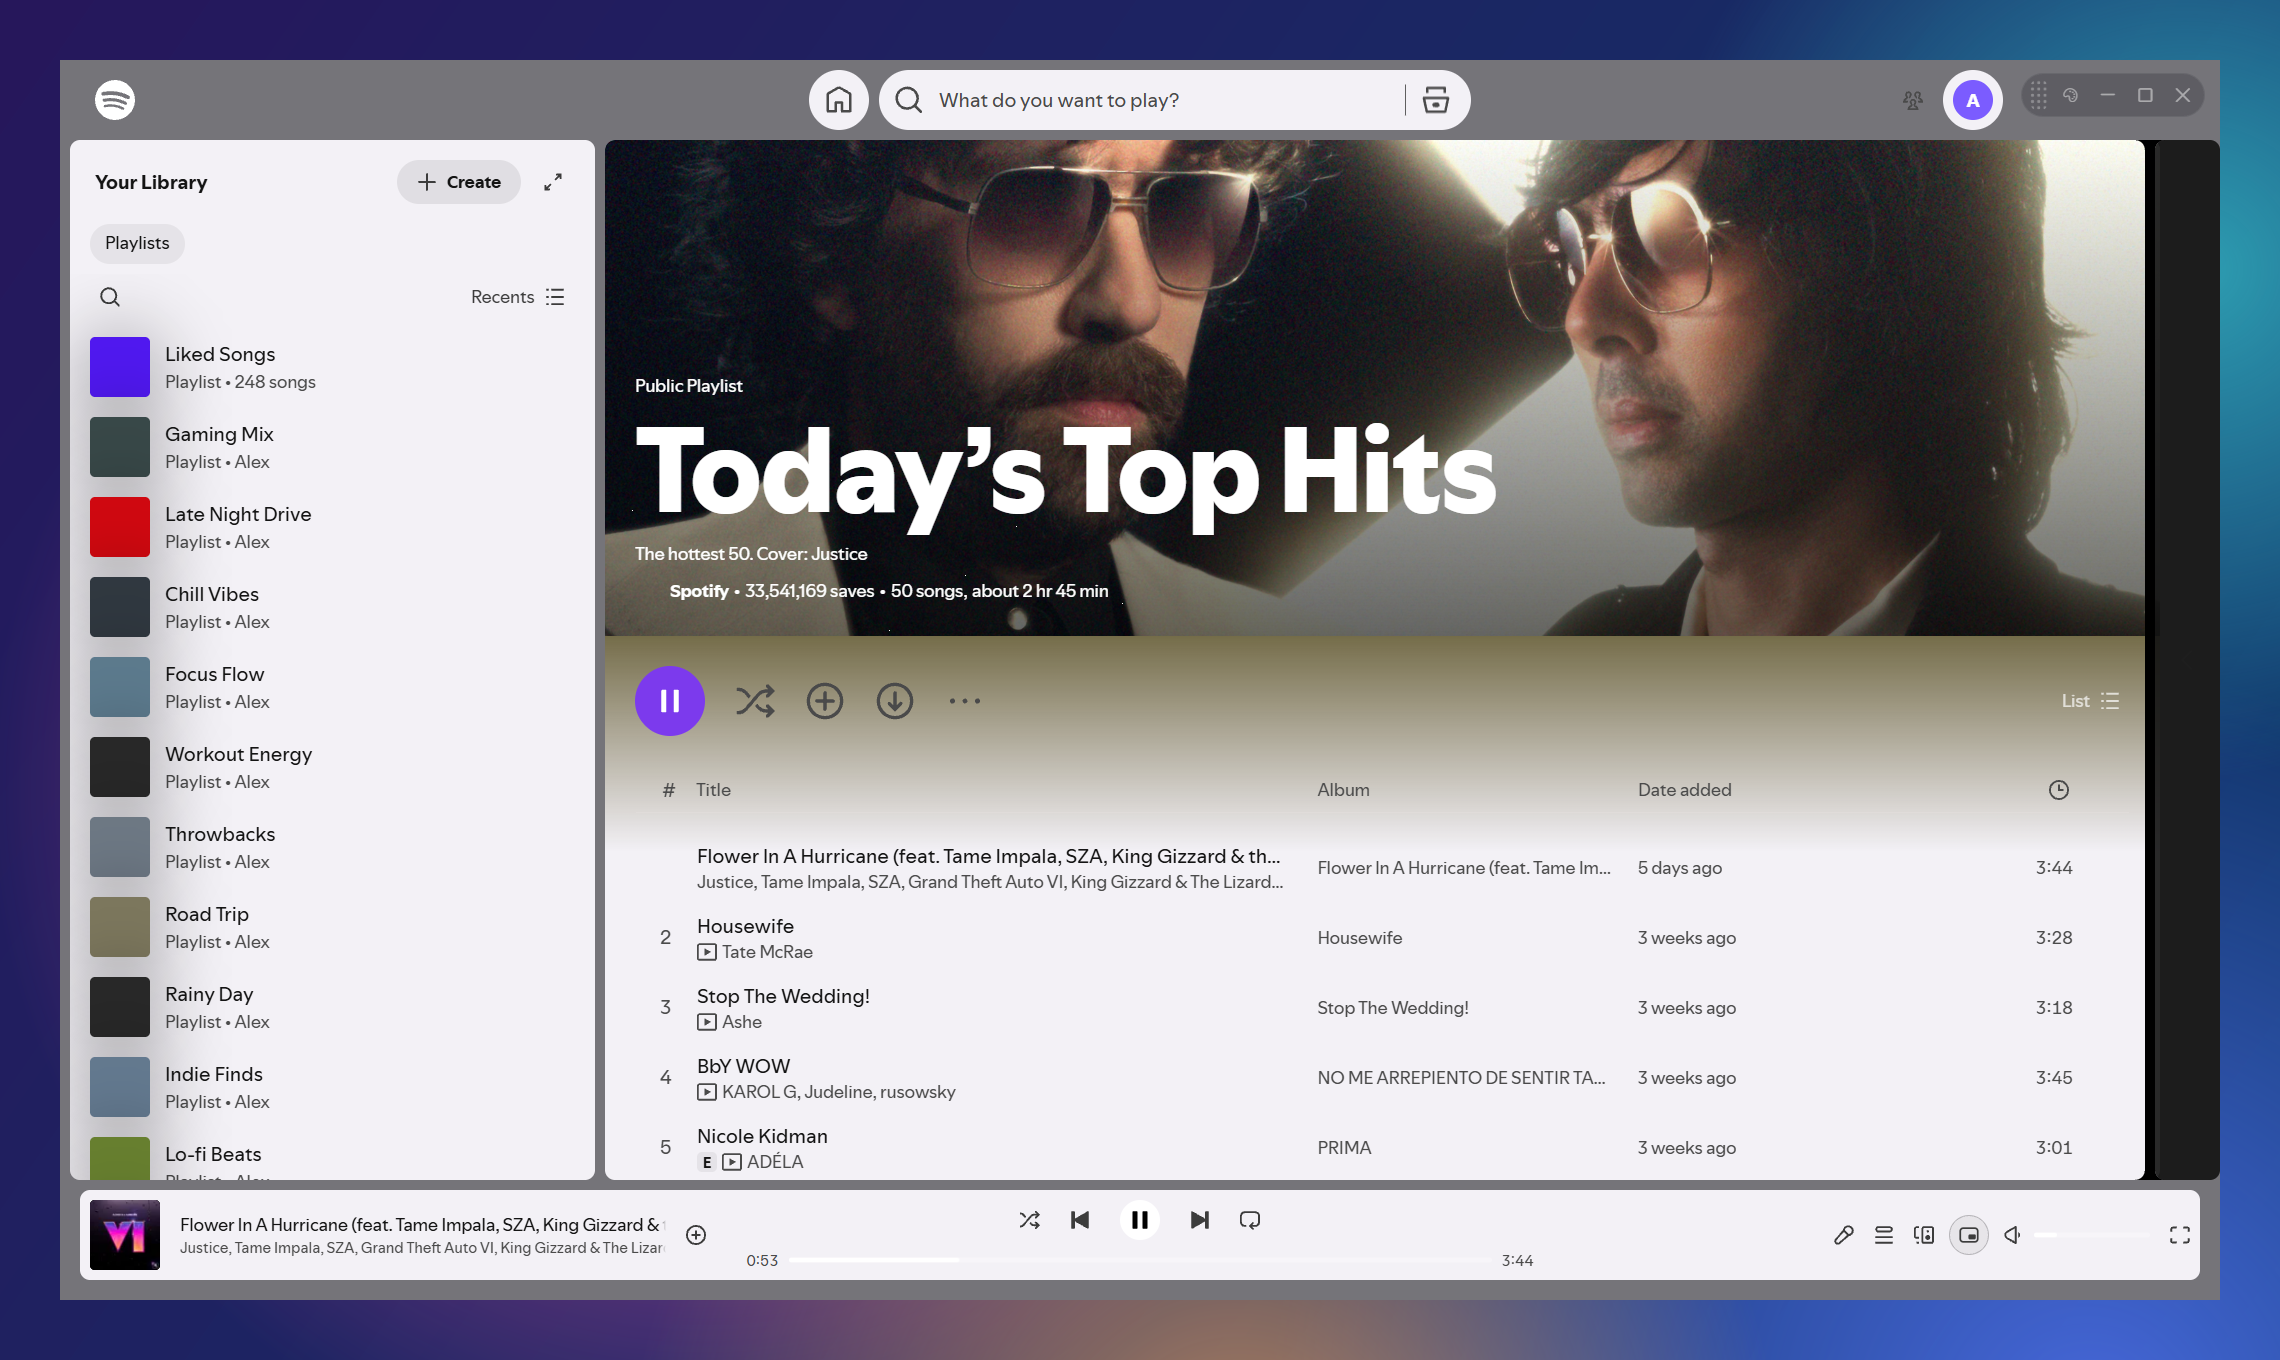
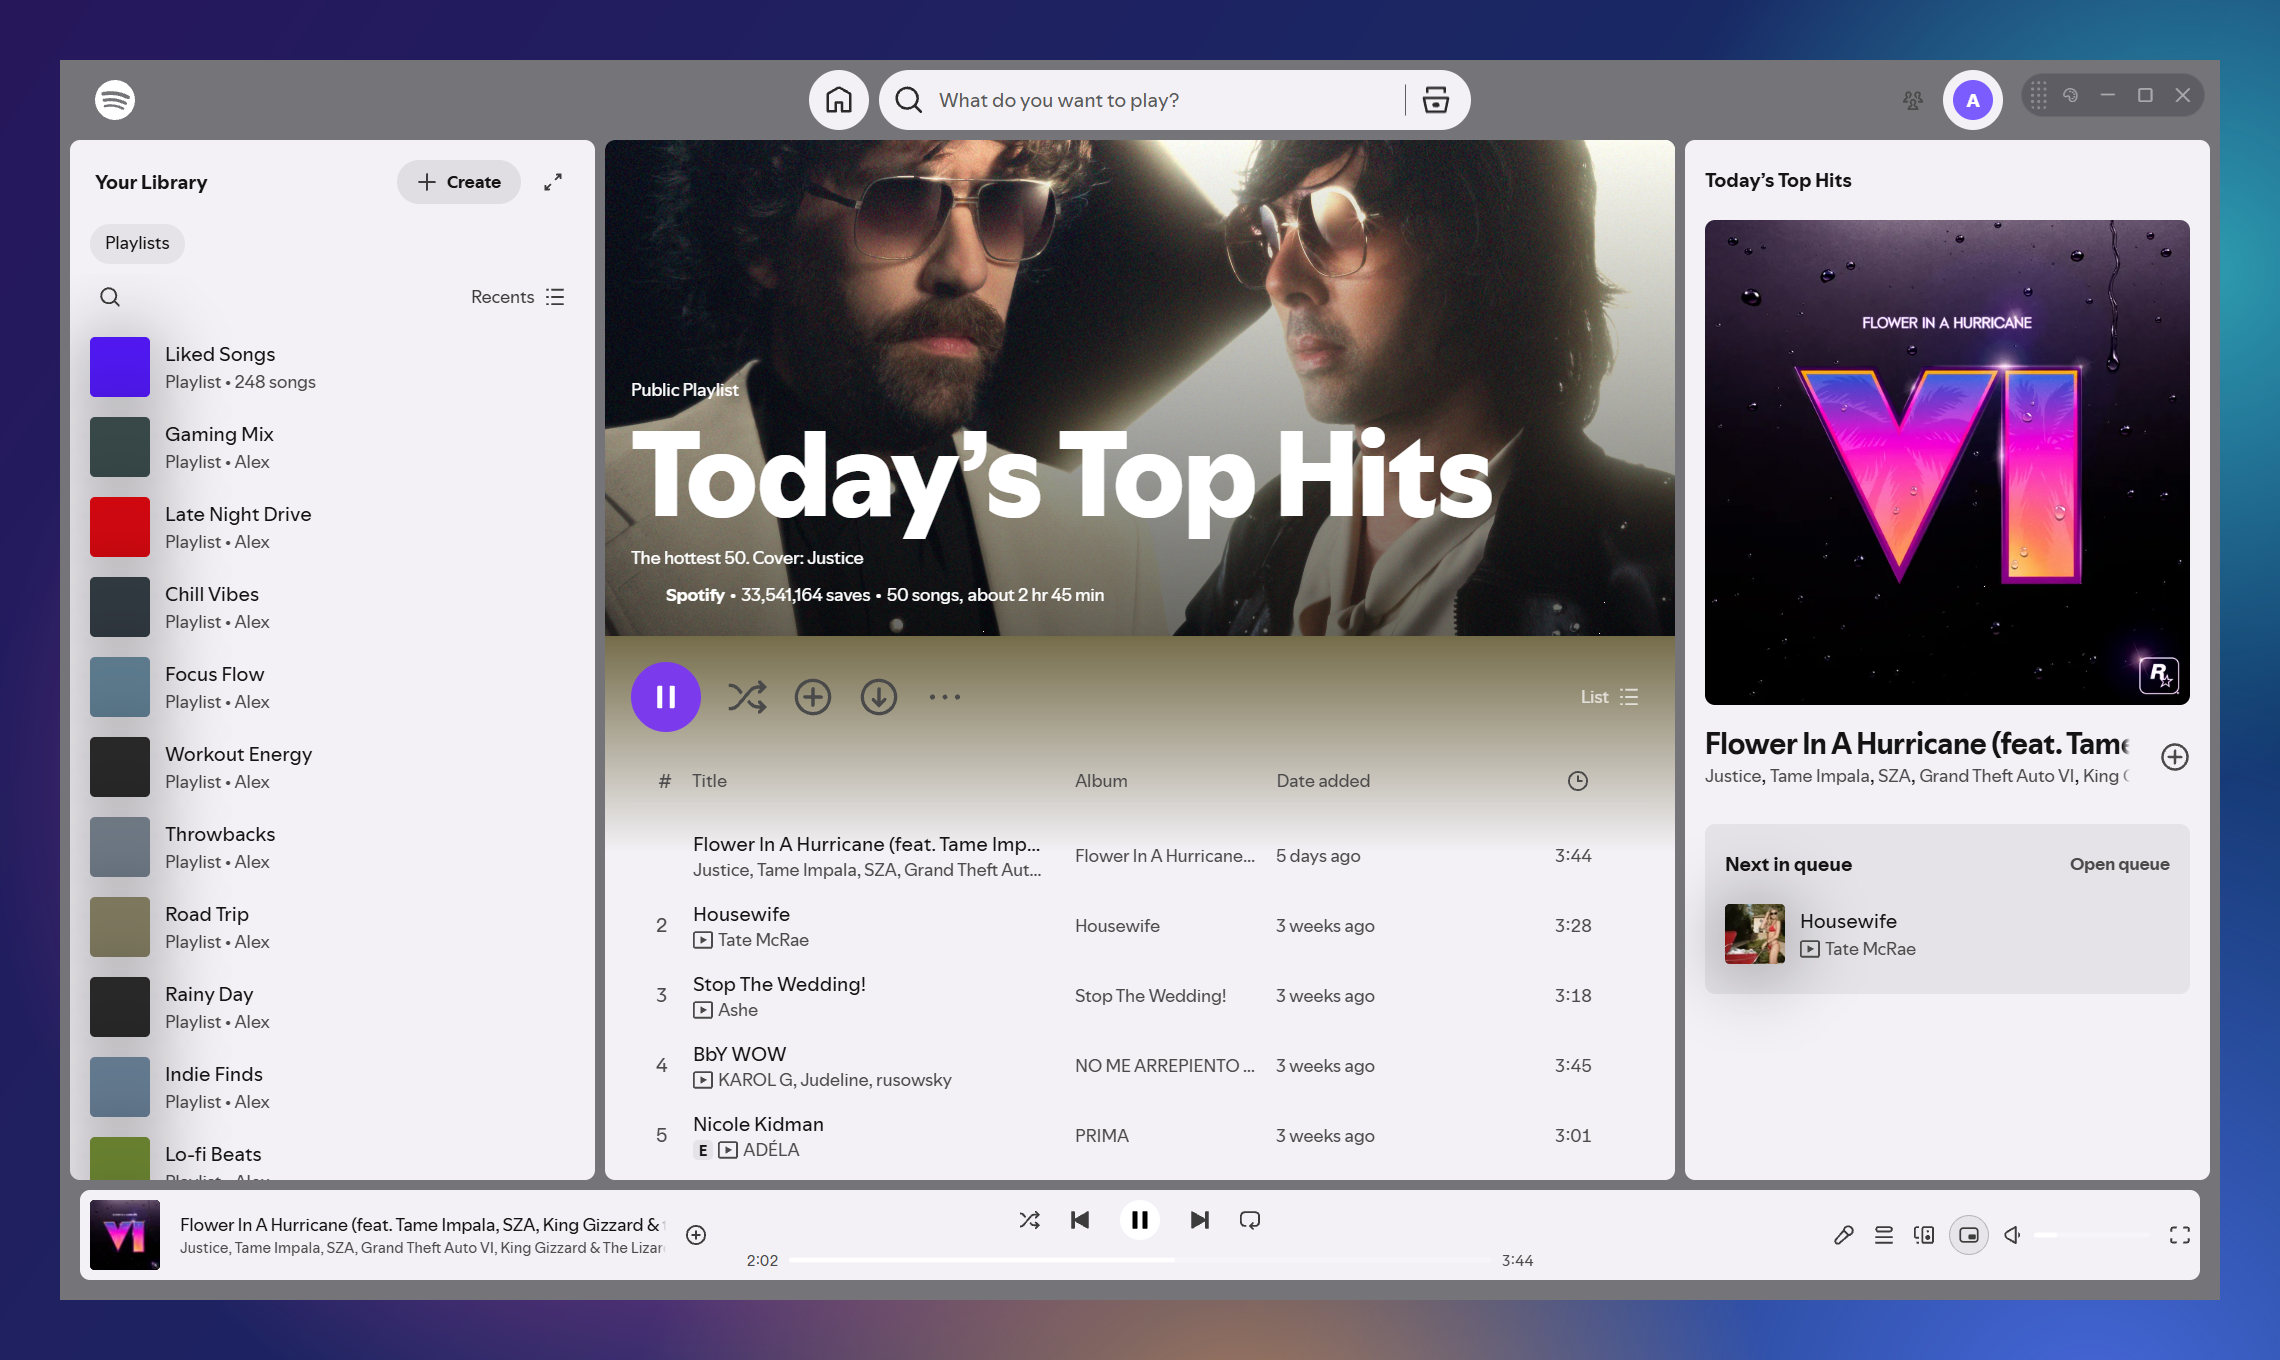
Version 1.1: new screenshots, features explained, Now playing panel fix
- Version 1.1.
- Now playing panel: Spotify's solid black layer and grey cards no longer
  cover Glassify's colour (it was unreadable in Light with light colours).
- New anonymized screenshots (gradient, settings tabs, bar on the side,
  bar menu search); README explains every feature.

diff --git a/theme.css b/theme.css
@@ -22,6 +22,14 @@ html, body, #main, [data-testid="root"], [data-ms-wrap], [data-testid="global-na
 
 /* Spotify's own solid layers inside the panels (tagged once by Glassify) and the page-colour header band */
 [data-ms-clear], #main-view [style*="background-color"] { background-color: transparent !important; background-image: none !important; }
+/* 'Now playing' panel: Spotify paints a solid black layer over it (its ::before) and gives its cards (artist, credits,
+   videos) solid grey inside its own dark-theme scope; show Glassify's colour there too, cards as a soft tint */
+#Desktop_PanelContainer_Id::before, #Desktop_PanelContainer_Id::after { background: transparent !important; }
+#Desktop_PanelContainer_Id, #Desktop_PanelContainer_Id .encore-dark-theme {
+  --background-elevated-base: rgba(255,255,255,.08) !important; --background-elevated-highlight: rgba(255,255,255,.12) !important; }
+html.ms-light #Desktop_PanelContainer_Id, html.ms-light #Desktop_PanelContainer_Id .encore-dark-theme {
+  --background-elevated-base: rgba(0,0,0,.06) !important; --background-elevated-highlight: rgba(0,0,0,.1) !important;
+  --text-base: #141414 !important; --text-subdued: #4a4a4a !important; --essential-base: #141414 !important; --essential-subdued: #5f5f5f !important; }
 /* closed 'Now playing' panel: Spotify keeps it full width inside a thin strip; hide what peeks out */
 [aria-hidden="true"] > div > #Desktop_PanelContainer_Id { visibility: hidden !important; }
 

diff --git a/app/Program.cs b/app/Program.cs
@@ -10,7 +10,7 @@ namespace Glassify
 {
     static class Program
     {
-        public const string Version = "1.0.10";
+        public const string Version = "1.1";
         public const string UpdateRepo = "ilyvbrdn/Glassify";
 
         public static readonly string Home = AppDomain.CurrentDomain.BaseDirectory;

diff --git a/README.md b/README.md
@@ -3,61 +3,86 @@
 # Glassify
 
 A light, floating, glass-styled Windows player for Spotify. It runs Spotify's own web player (so playback,
-your library and Premium all work normally) inside a minimal see-through window, with a floating mini player
-and features for listening while gaming.
+your library and Premium all work normally) inside a minimal see-through window, with a player you can shrink
+into a floating card or dock to the edge of your screen, and features for listening while gaming.
+
+![Glassify with a two-colour gradient](screenshots/glassify-gradient.png)
 
 ## Download
 Get **[the latest release](https://github.com/ilyvbrdn/Glassify/releases/latest)**, extract the zip to a folder
-you can write to (not Program Files) and run `Glassify.exe`. On first launch Windows may show
-"Windows protected your PC": click **More info → Run anyway** (the app isn't code-signed).
+you can write to (Documents or Downloads, not Program Files) and run `Glassify.exe`. Sign in to Spotify
+(Premium needed). On first launch Windows may show "Windows protected your PC": click
+**More info → Run anyway** (the app isn't code-signed). After that it updates itself.
 
 ## Why Glassify?
 The official Spotify app for Windows is heavy: it is slow to open, keeps using CPU and memory in the
 background and is hard to keep out of the way while you play games. Glassify is a lighter shell around
-Spotify's own web player. It opens quickly, drops to low priority when you're not looking at it, shrinks to
-a tiny always-on-top mini player, and switches to a click-through "ghost" mini player by itself when a
-fullscreen game starts. You also choose how it looks: see-through glass, solid or light, in any colours.
+Spotify's own web player. It opens quickly, drops to low priority when you're not looking at it, folds into a
+small always-on-top player or a bar on the edge of your screen, and gets out of the way by itself when a
+fullscreen game starts. And you decide how it looks: see-through glass, solid or light, in any colours.
 
-## Screenshots
-**The bar**: the player docked to an edge of your screen, with next in queue and your recent playlists
+## How it looks
+| | |
+|---|---|
+| ![Glass, pink](screenshots/glassify-glass-pink.png) **Glass**: floating see-through panels | ![Settings](screenshots/glassify-settings-blue.png) **Settings**: the gear menu, in four tabs |
+| ![Solid](screenshots/glassify-solid-amber.png) **Solid**: a normal window, any colour | ![Light](screenshots/glassify-light.png) **Light**: the lightest on your PC |
+
+## The player: a card or a bar
+**The bar** docks to the top of your screen with the song, a timeline, next in queue and your recently played playlists:
 
 ![The bar](screenshots/glassify-bar.png)
 
-| | |
-|---|---|
-| ![Glass, pink](screenshots/glassify-glass-pink.png) **Glass** | ![Settings, blue](screenshots/glassify-settings-blue.png) **Settings (gear menu)** |
-| ![Glass, green](screenshots/glassify-focused-green.png) **Glass, green** | ![Solid, amber](screenshots/glassify-solid-amber.png) **Solid** |
-| ![Light](screenshots/glassify-light.png) **Light (lightest on CPU)** | ![The bar's menu](screenshots/glassify-bar-menu.png) **The bar's menu: your library and song search** |
-| ![Mini player, wide](screenshots/glassify-mini-wide.png) **Mini player, any size: wide...** | ![Mini player, tall](screenshots/glassify-mini-tall.png) **...or tall** |
-| ![Mini player](screenshots/glassify-mini.png) **Mini player in three colours** | ![Ghost mini player](screenshots/glassify-ghost.png) **Ghost mini player (while gaming)** |
+| | | |
+|---|---|---|
+| ![The bar's menu](screenshots/glassify-bar-menu.png) **Its menu**: your library | ![Bar search](screenshots/glassify-bar-search.png) **...and song search** | ![The bar on the side](screenshots/glassify-bar-side.png) **On the left or right** it becomes a sidebar |
+| ![Mini player, wide](screenshots/glassify-mini-wide.png) **The mini player**, any size: wide... | ![Mini player, tall](screenshots/glassify-mini-tall.png) **...or tall** with a big cover | ![Ghost mini player](screenshots/glassify-ghost.png) **Ghost mode** while gaming: see-through and click-through |
 
 Screenshots use a demo library; your own playlists are never part of the app or this repo.
 
-## Features
-- **Settings** (gear menu) in four tabs: Look, Player, Gaming, More.
-- **Look slider**: Glass, Solid, Light. Light is the lightest on CPU.
-- **Colours**: panel colour or a **two-colour gradient** with any angle and a balance slider (it flows across the whole
-  window, and the mini player and bar follow it), transparency and highlight colour, plus an optional glass top bar that matches
-  the panels or has its own colour and transparency. The search box and home button follow the gradient too.
-- **One player, two shapes**: a floating **mini player** or a **bar** docked to any edge of the screen.
-  Ctrl+Alt+B (or the shape buttons) turns one into the other.
-  - **Mini player**: always on top, drag any edge or corner to any size (tall gives a big cover), cover art,
-    controls, like, click the bar to seek, mouse wheel for volume, button to open the main player.
-  - **Bar**: docks to the **top, bottom, left or right** edge of **any screen** (drag its grip to an edge, or
-    pick in the gear menu). Takes its space like the taskbar (windows make room for it), steps aside for
-    fullscreen games, shows the song, a timeline with the like button, **next in queue** and your **recently
-    played playlists**; on the left or right it becomes a sidebar with a big cover. Its menu lists your library
-    and searches songs. Adapts to any screen, from laptops to ultra-wides.
-- **Minimize to the player**: minimizing hides the main window and leaves the player; a tray icon by the clock
-  shows Glassify is still running.
-- **Automatic game mode**: when a fullscreen game starts, switches to the player and low priority;
-  restores everything when the game closes. Screenshot tools and fullscreen videos don't count as games.
-- **Ghost mini player**: see-through and click-through while gaming (Ctrl+Alt+G any time).
-- **Song-change popup** (optional), **start with Windows** (optional, can start straight into the player).
-- **Crash recovery**: if Spotify's page crashes it reloads and keeps playing.
-- **Automatic updates**: checks this repo's latest GitHub Release a few seconds after starting and every 2 hours,
-  and installs it by itself in seconds (never during a game), keeping your login, settings and music. Can be
-  switched off in Settings > More; then the update button installs it in one click.
+## Features, explained
+
+### Looks and colours (Settings > Look)
+- **Look slider: Glass, Solid, Light.** Glass is the floating see-through style. Solid is a normal opaque
+  window (cheaper to draw). Light is the lightest on CPU and memory: one flat colour, no cover art in lists,
+  animations paused, low priority. Every button still works in every look.
+- **Panel colour** from the swatches or any colour you pick, and **transparency** for the glass.
+- **Gradient**: blend the panel colour into a second colour, at any **angle**, with a **balance** slider for
+  which colour dominates (it snaps to the middle, double-click resets). One continuous gradient runs across
+  the whole window, the search box and home button included, and the mini player and bar follow it.
+- **Highlight colour** instead of Spotify green (play buttons, the song that's playing, progress bars).
+- **Top bar background**: an optional glass bar behind the search box and window buttons, matching the
+  panels or with its own colour and transparency.
+- Light colours automatically get dark text, so everything stays readable.
+
+### One player, two shapes (Settings > Player)
+- **Mini player**: a small always-on-top card with the cover, song, controls, like button and a seek bar.
+  Drag any edge or corner to any size; tall gives a big cover. Mouse wheel changes the volume.
+- **Bar**: docks to the **top, bottom, left or right** edge of **any screen** (drag its grip to an edge, or
+  pick the position and screen in Settings). Other windows make room for it, like the taskbar, and it steps
+  aside for fullscreen games. It shows the song, a timeline with the like button, **next in queue** (click to
+  skip to it) and your **recently played** playlists (click to play). On the left or right it becomes a
+  sidebar with a big cover. Its **menu** lists your whole library and **searches songs**. It adapts to any
+  screen, from laptops to ultra-wides.
+- **Ctrl+Alt+B** (or the shape button) turns one shape into the other; Ctrl+Alt+M shows or hides it.
+- **Minimize or close to the player**: with this on, the – and × buttons hide the main window and leave the
+  player playing. Quit from the Glassify icon by the clock (or Alt+F4). Hiding the player too leaves Glassify
+  on the taskbar, so it never looks closed.
+
+### Gaming (Settings > Gaming)
+- **Automatic game mode**: when a fullscreen game starts, Glassify hides the main window, shows the player and
+  drops to low priority so the game comes first; everything comes back when the game closes. Browsers,
+  fullscreen videos and screenshot tools don't count as games.
+- **Ghost mini player**: during games the mini player turns see-through and click-through, so it never blocks
+  a click (Ctrl+Alt+G any time).
+
+### Everything else (Settings > More)
+- **Song-change popup** (optional): a small popup with the cover when the song changes and Glassify isn't in front.
+- **Start with Windows** (optional), and **start in the mini player** if you like.
+- **Automatic updates**: checks for a new version a few seconds after starting and every 2 hours, installs it
+  in seconds with your music still playing, and never during a game. Your login and settings are kept. Can be
+  switched off; then an update button installs it in one click.
+- **Crash recovery**: if Spotify's page crashes, Glassify reloads it and keeps playing.
+- **Light on your PC**: low priority and memory saver whenever Glassify is minimized or a game is running.
 
 ## Shortcuts
 | Keys | Action |
@@ -65,7 +90,7 @@ Screenshots use a demo library; your own playlists are never part of the app or 
 | Ctrl+Alt+M | show / hide the player |
 | Ctrl+Alt+B | switch the player between mini player and bar |
 | Ctrl+Alt+G | ghost (click-through) mini player |
-| Ctrl+Alt+L | like current song |
+| Ctrl+Alt+L | like the current song |
 | Ctrl+Alt+Up / Down | volume |
 | Media keys | play/pause, next, previous |
 
@@ -87,14 +112,14 @@ Your login and settings live in a `data` folder next to the exe. **Never share o
 1. Bump `Version` in `app/Program.cs` and `app/Glassify.csproj`.
 2. Build, then zip a `Glassify` folder holding `Glassify.exe`, its DLLs, the `runtimes` folder and `theme.css`
    (never `data`).
-3. Create a GitHub Release with a higher tag (like `v1.1.0`) and attach the zip.
+3. Create a GitHub Release with a higher tag (like `v1.2`) and attach the zip.
 
 Running copies check a few seconds after starting and every 2 hours, then install it automatically (or, with
 automatic updates off, show an update button at the top right). The update downloads the zip from this
 repo's releases, checks it against GitHub's SHA-256 fingerprint, swaps the program files (the `data` folder with
 the login and settings is never touched) and restarts with the music still playing. If anything goes wrong it
-puts the old files back and opens the release page instead. If Glassify can't write to its own folder (for
-example under Program Files) the button just opens the release page.
+puts the old files back. If Glassify can't write to its own folder (for example under Program Files) the
+button just opens the release page.
 
 ## Notes
 Not affiliated with Spotify. Uses Spotify's official web player unmodified (no ad blocking, no downloading,
